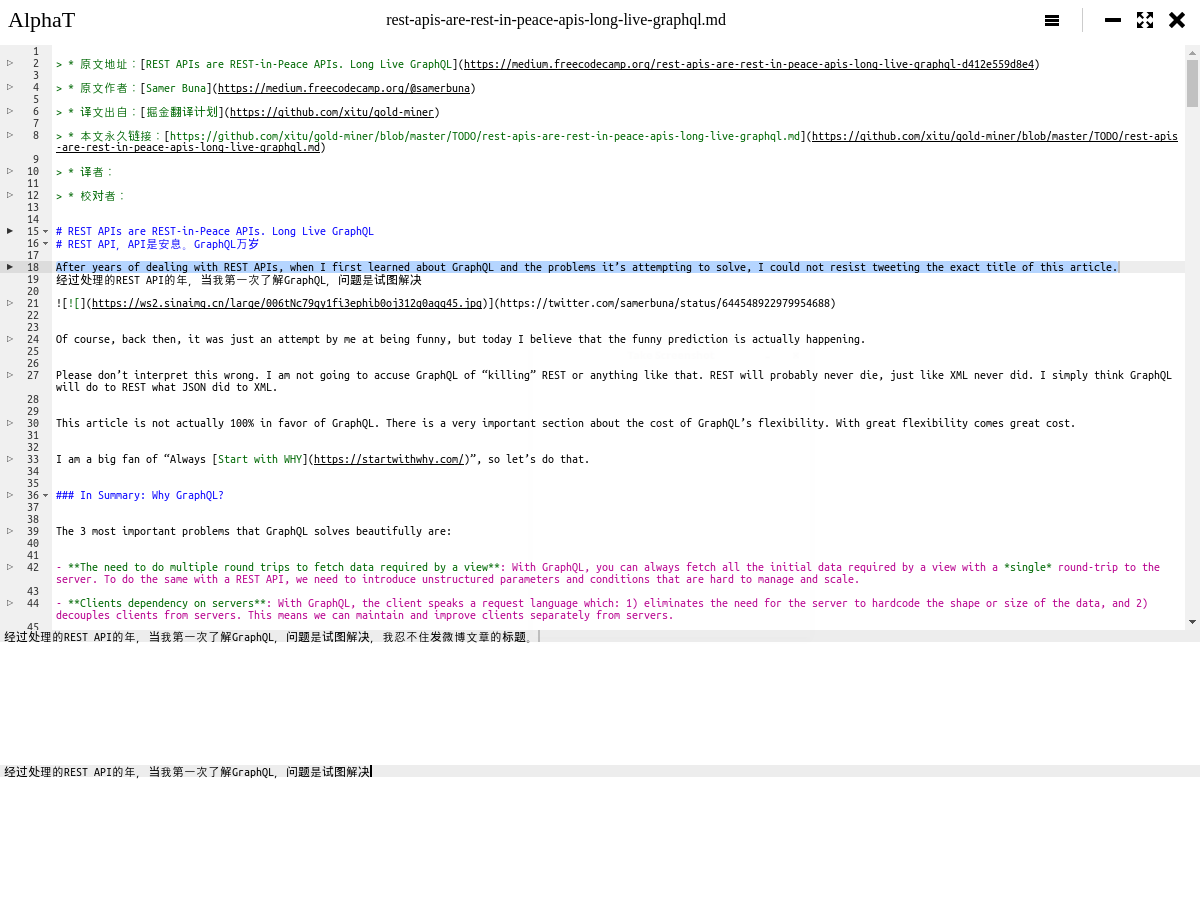
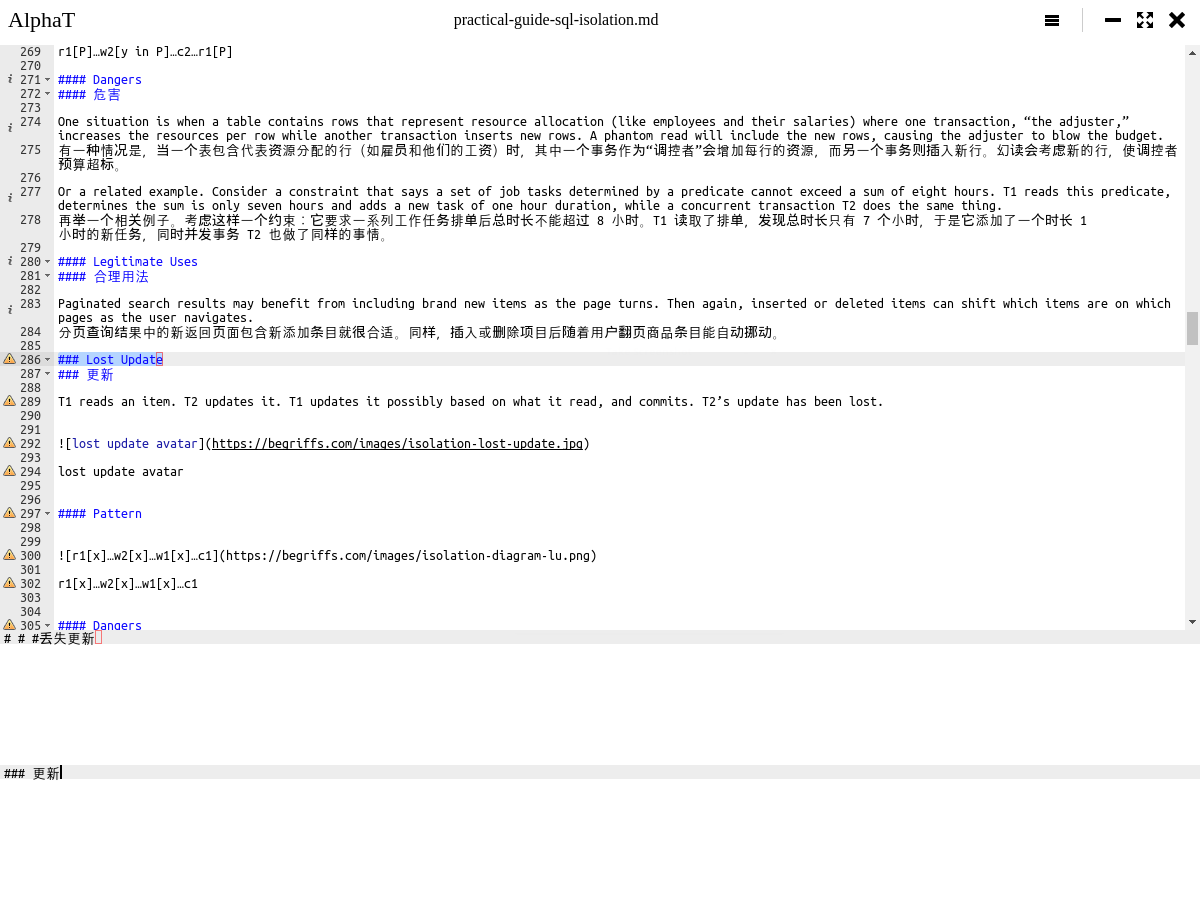
Update translate line marker

diff --git a/src/js/acer/origin.js b/src/js/acer/origin.js
@@ -2,6 +2,13 @@ const ace = require('brace')
 const Acer = require('../lib/acer')
 const Range = ace.acequire('ace/range').Range
 
+const ANNOTATION_TEXT = {
+  'info': 'DONE',
+  'warning': 'TODO'
+}
+
+let annotations = []
+
 class Origin extends Acer {
   constructor (seletor, eventBus, data) {
     super(seletor, eventBus, data)
@@ -14,7 +21,7 @@ class Origin extends Acer {
     this.acer.selection.removeAllListeners('changeCursor')
     this.acer.setValue(session.getText())
     this.acer.renderer.once('afterRender', () => {
-      this.renderMarker()
+      this.renderAnnotation()
     })
     this.acer.selection.on('changeCursor', () => {
       this.$eventBus.trigger('cursor.origin', this.acer.selection.getCursor())
@@ -24,18 +31,27 @@ class Origin extends Acer {
     this.$eventBus.trigger('title.origin', session.getBasename())
   }
 
-  renderMarker () {
+  renderAnnotation () {
     if (!this.session) return
-    let $gutters = this.$acer.find('.ace_gutter-cell')
     this.session.lines.forEach(line => {
-      let marker = this.session.renderMarker(line)
-      if (!marker) return
-      $gutters.eq(marker.row).append(`<span class="mark-gutter">${marker.mark}</span>`)
+      let annotation = this.session.getAnnotation(line)
+      if (!annotation) return
+      addTextToAnnotation(annotation)
+      annotations.push(annotation)
     })
+    this.acer.session.setAnnotations(annotations)
   }
 
-  unmarkLine (row, isDst) {
-    this.$acer.find(`.ace_gutter-cell:eq(${row}) .mark-gutter`).text(isDst ? '▶' : '▷')
+  unmarkLine (annotation) {
+    addTextToAnnotation(annotation)
+    for (let i = 0; i < annotations.length; i++) {
+      let ann = annotations[i]
+      if (ann.row === annotation.row) {
+        if (ann.type === annotation.type) { return }
+        annotations[i] = annotation
+      }
+    }
+    this.acer.session.setAnnotations(annotations)
   }
 
   moveTo (row = 0, column = 0) {
@@ -48,10 +64,16 @@ class Origin extends Acer {
     this.$eventBus.on('syncdst.origin', (event, {start, end, text = ''}) => {
       this.acer.session.doc.replace(new Range(start, 0, end, Number.MAX_VALUE), text)
     })
-    this.$eventBus.on('unmarkLine.origin', (event, {row, isDst}) => {
-      this.unmarkLine(row, isDst)
+    this.$eventBus.on('unmarkLine.origin', (event, annotation) => {
+      if (!annotation) return
+      this.unmarkLine(annotation)
     })
   }
+}
+
+function addTextToAnnotation (annotation) {
+  annotation.text = ANNOTATION_TEXT[annotation.type]
+  return annotation
 }
 
 module.exports = Origin

diff --git a/src/js/app.js b/src/js/app.js
@@ -178,7 +178,7 @@ function bindEvent () {
     if (previouseLine) {
       if (previouseLine.id === currentLine.id) { return }
       previouseLine.dst = dstAcer.getText()
-      eventBus.trigger('unmarkLine.origin', {row: session.getLineRow(previouseLine), isDst: Boolean(previouseLine.dst)})
+      eventBus.trigger('unmarkLine.origin', session.getAnnotation(previouseLine))
     }
     if (currentLine.origin) {
       if (currentLine.ai) {

diff --git a/src/main.js b/src/main.js
@@ -6,8 +6,8 @@ const sessions = require('./sessions')
 const SESSIONS_PATH = 'Sessions'
 
 // Icon
-const ICON = `icon.${((process.platform === 'win32') ? 'ico' : 'png')}`;
-const ICON_PATH = path.join(__dirname, 'img', ICON);
+const ICON = `icon.${((process.platform === 'win32') ? 'ico' : 'png')}`
+const ICON_PATH = path.join(__dirname, 'img', ICON)
 
 if (process.env.NODE_ENV === 'development') {
   require('electron-reload')(__dirname, {

diff --git a/src/js/session.js b/src/js/session.js
@@ -112,11 +112,11 @@ class Session {
     })
   }
 
-  renderMarker (line) {
+  getAnnotation (line) {
     if (!line.id) { return }
     let row = this.getLineRow(line)
-    let mark = line.ai ? '▶' : '▷'
-    return {mark, row}
+    let type = line.dst ? 'info' : 'warning'
+    return {type, row}
   }
 
   getLineRow (line) {

diff --git a/README.md b/README.md
@@ -1,4 +1,4 @@
-轻量文档翻译工具
+免费文档翻译程序，借助机器翻译，帮助您快速一行一行翻译文档。
 
 ![screen](https://github.com/sigoden/alphat/blob/master/src/img/screen.png)
 
@@ -6,14 +6,21 @@
 
 - 多个主题
 - 多种按键模式（常规，VIM，EMACS）
-- 多平台（Windows, OSX 和 Linux）
+- 全平台（Windows, OSX 和 Linux）
 - 多种翻译引擎（百度，有道，谷歌）免费使用
 
 ## 安装
 
-下面链接中下载安装包
+从 [Github Releases](https://github.com/sigoden/alphat/releases) 中获取最新版本
 
-[https://github.com/sigoden/alphat/releases](https://github.com/sigoden/alphat/releases)
+## 开发
+
+```
+git clone https://github.com/sigoden/alphat.git
+cd alphat
+npm i
+NODE_ENV=development npm start
+```
 
 ## 常用快捷键
 
@@ -21,7 +28,3 @@
 - `ctrl + .` 复制机器翻译
 - `ctrl + ↑` 上一句翻译
 - `ctrl + ↓` 下一句翻译
-
-## License
-
-MIT
